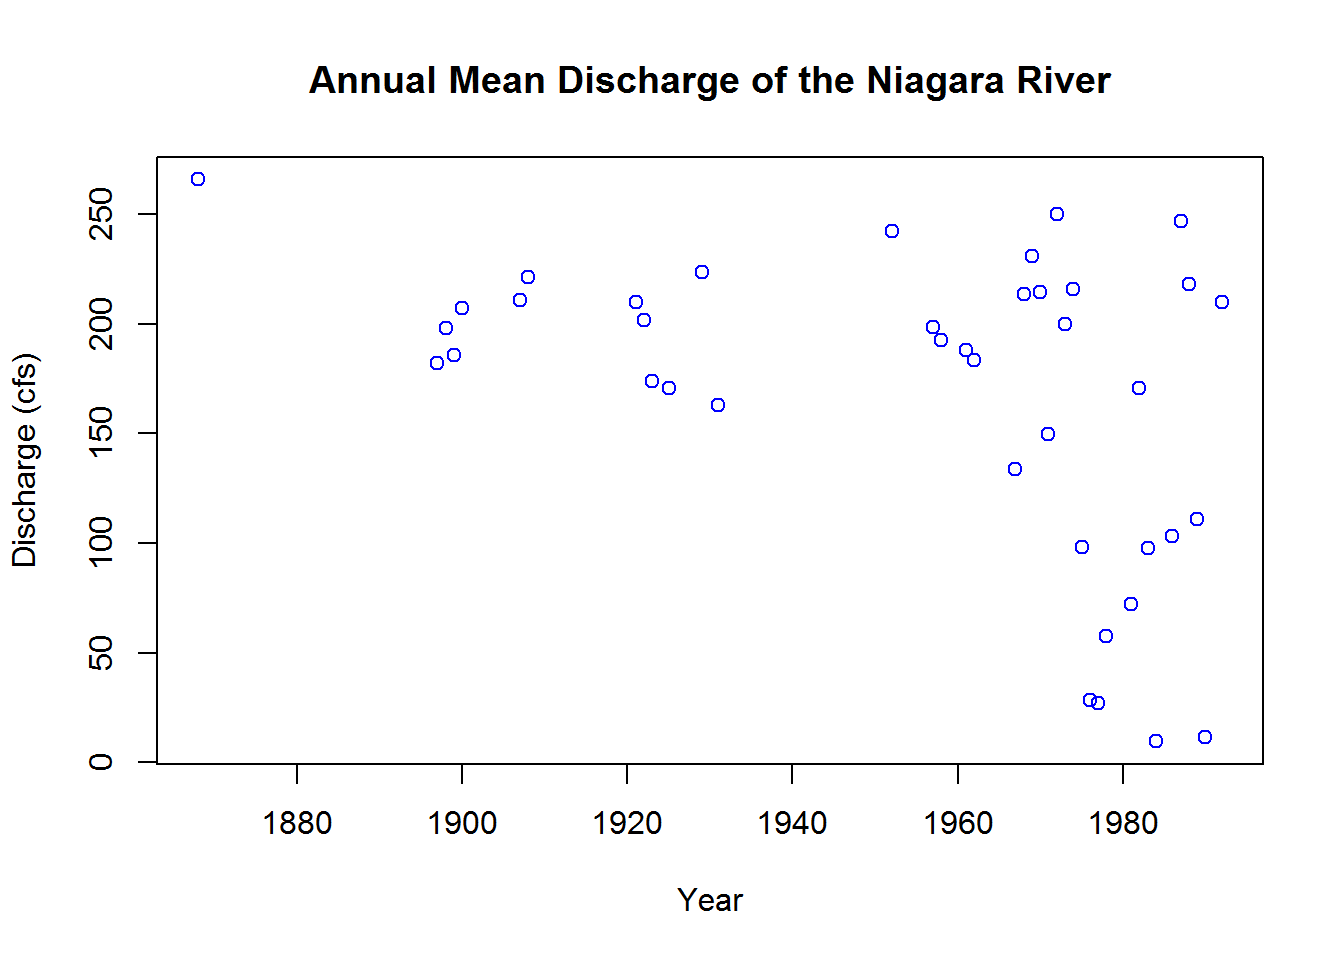
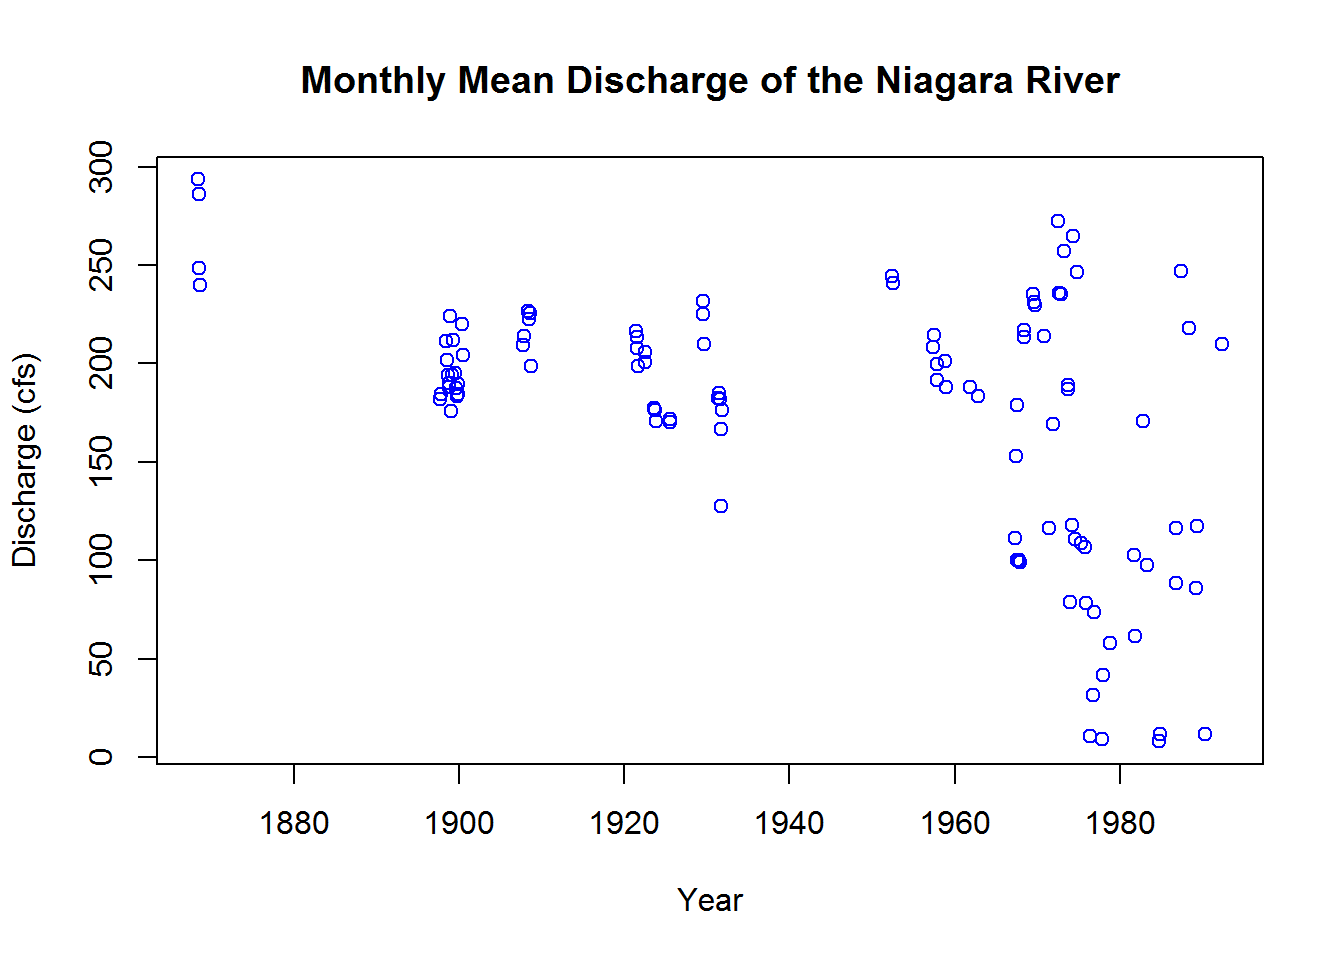
update

diff --git a/docs/index.html b/docs/index.html
@@ -449,99 +449,110 @@ knitr::opts_chunk$set(cache=TRUE)  # cache the results for quick compiling</code
 <h1>Coding Section</h1>
 <p>The comma separated value (csv) file that the above hyperlink returns can be downloaded straigt to R using the following code:</p>
 <pre class="r"><code>Qdata&lt;-fread(&quot;http://www.lre.usace.army.mil/Portals/69/docs/GreatLakesInfo/docs/DischargeMeasurement/DischargeData/NiagaraRiverDischargeData.csv&quot;)
-#Not working:Qdata=select(Qdata,(&#39;Cross.Section.Name&#39;=&#39;Cross-Section Name&#39;),(&#39;Discharge&#39;=&#39;Discharge/tcfs&#39;), &#39;Year&#39;, &#39;Month&#39;,&#39;Day&#39;,(&#39;Time&#39;=&#39;Start Time&#39;))
-head(Qdata)</code></pre>
-<pre><code>##            River Cross-Section Name Year Month Day Instance Start Time
-## 1: Niagara River     American Falls 1971     6   2        1       8:00
-## 2: Niagara River     American Falls 1971     6   3        1       7:30
-## 3: Niagara River     American Falls 1971     6   3        2      10:05
-## 4: Niagara River     American Falls 1971     6   3        3      13:15
-## 5: Niagara River     American Falls 1971     6   3        4      14:55
-## 6: Niagara River     American Falls 1971     6   3        5      18:15
-##    End Time Discharge/tcfs                                Technology
-## 1:    10:15           12.6 Conventional - off American Rapids bridge
-## 2:     9:35           13.4 Conventional - off American Rapids bridge
-## 3:    12:00           13.7 Conventional - off American Rapids bridge
-## 4:    14:45           13.4 Conventional - off American Rapids bridge
-## 5:    16:05           12.7 Conventional - off American Rapids bridge
-## 6:    19:20           10.3 Conventional - off American Rapids bridge</code></pre>
-<pre class="r"><code>#Not working: Qdata$Date[is.na(Qdata$Date)]=as.Date( with(Qdata,paste(Year, Month , Day , sep = &quot;-&quot; ),&quot;12-31-9999&quot;, format = &quot;%Y-%m-%d&quot; ))</code></pre>
+Qdata=select(Qdata,&#39;Cross.Section.Name&#39;=&#39;Cross-Section Name&#39;,&#39;Discharge&#39;=&#39;Discharge/tcfs&#39;, &#39;Year&#39;, &#39;Month&#39;,&#39;Day&#39;,&#39;Time&#39;=&#39;Start Time&#39;)
+Qdata[Qdata$Year==1931&amp;Qdata$Month==9&amp;Qdata$Day==31,&quot;Day&quot;]=30</code></pre>
+<pre><code>## Warning in `[&lt;-.data.table`(`*tmp*`, Qdata$Year == 1931 &amp; Qdata$Month == :
+## Coerced &#39;double&#39; RHS to &#39;character&#39; to match the column&#39;s type; may have
+## truncated precision. Either change the target column to &#39;double&#39; first
+## (by creating a new &#39;double&#39; vector length 2004 (nrows of entire table) and
+## assign that; i.e. &#39;replace&#39; column), or coerce RHS to &#39;character&#39; (e.g. 1L,
+## NA_[real|integer]_, as.*, etc) to make your intent clear and for speed. Or,
+## set the column type correctly up front when you create the table and stick
+## to it, please.</code></pre>
+<pre class="r"><code>head(Qdata)</code></pre>
+<pre><code>##    Cross.Section.Name Discharge Year Month Day  Time
+## 1:     American Falls      12.6 1971     6   2  8:00
+## 2:     American Falls      13.4 1971     6   3  7:30
+## 3:     American Falls      13.7 1971     6   3 10:05
+## 4:     American Falls      13.4 1971     6   3 13:15
+## 5:     American Falls      12.7 1971     6   3 14:55
+## 6:     American Falls      10.3 1971     6   3 18:15</code></pre>
 <p>Let’s work with the data now. I am going to compile the separate columns for the date: Year, Month, and Day; into a single Date column:</p>
-<pre class="r"><code>#This stopped working:
-#Qdata$Date[is.na(Qdata$Date)]=as.Date( with(Qdata,paste(Year, Month , Day , sep = &quot;-&quot; ),&quot;12-31-9999&quot;, format = &quot;%Y-%m-%d&quot; ))
+<pre class="r"><code>Qdata$Date=as.Date( with(Qdata,paste(Year, Month , Day , sep = &quot;-&quot; ),&quot;12-31-9999&quot;, format = &quot;%Y-%m-%d&quot; ))
 head(Qdata)</code></pre>
-<pre><code>##            River Cross-Section Name Year Month Day Instance Start Time
-## 1: Niagara River     American Falls 1971     6   2        1       8:00
-## 2: Niagara River     American Falls 1971     6   3        1       7:30
-## 3: Niagara River     American Falls 1971     6   3        2      10:05
-## 4: Niagara River     American Falls 1971     6   3        3      13:15
-## 5: Niagara River     American Falls 1971     6   3        4      14:55
-## 6: Niagara River     American Falls 1971     6   3        5      18:15
-##    End Time Discharge/tcfs                                Technology
-## 1:    10:15           12.6 Conventional - off American Rapids bridge
-## 2:     9:35           13.4 Conventional - off American Rapids bridge
-## 3:    12:00           13.7 Conventional - off American Rapids bridge
-## 4:    14:45           13.4 Conventional - off American Rapids bridge
-## 5:    16:05           12.7 Conventional - off American Rapids bridge
-## 6:    19:20           10.3 Conventional - off American Rapids bridge</code></pre>
-<p>We’ll find the annual mean discharge and standard deviation for the Niagara River:</p>
+<pre><code>##    Cross.Section.Name Discharge Year Month Day  Time       Date
+## 1:     American Falls      12.6 1971     6   2  8:00 1971-06-02
+## 2:     American Falls      13.4 1971     6   3  7:30 1971-06-03
+## 3:     American Falls      13.7 1971     6   3 10:05 1971-06-03
+## 4:     American Falls      13.4 1971     6   3 13:15 1971-06-03
+## 5:     American Falls      12.7 1971     6   3 14:55 1971-06-03
+## 6:     American Falls      10.3 1971     6   3 18:15 1971-06-03</code></pre>
+<p>We’ll find the monthly mean discharge and standard deviation for the Niagara River:</p>
 <pre class="r"><code>meanQdata=Qdata%&gt;%
-  group_by(Year)%&gt;%
+  group_by(Year,Month)%&gt;%
   summarise(meanDischarge = mean(Discharge,na.rm=T),
-    sdDischarge = sd(Discharge,na.rm=T))</code></pre>
+            sdDischarge = sd(Discharge,na.rm=T))
+data.table(meanQdata)</code></pre>
+<pre><code>##      Year Month meanDischarge sdDischarge
+##   1: 1868     6     293.55455   25.905882
+##   2: 1868     7     286.03000   19.715772
+##   3: 1868     8     248.31000   12.142743
+##   4: 1868     9     239.69286   27.894071
+##   5: 1897    10     181.85000   12.328357
+##  ---                                     
+## 102: 1988     5     218.13289    6.353086
+## 103: 1989     4      85.93333   25.768197
+## 104: 1989     5     117.41714  106.290477
+## 105: 1990     5      11.44000    1.406900
+## 106: 1992     5     210.01695   47.195650</code></pre>
 <p>I want to treat the data with the R package hydroTSM, which helps analyze hydrological data with time series. To do this, I need to get my data into a format that is compatible with the xts package.</p>
-<p>BUT, this code isn’t working yet, so I can’t include it here.</p>
-<pre class="r"><code>#xts1&lt;-xts(x=1:10,order.by = Sys.Date()-1:10)
+<pre class="r"><code>Qdata&lt;-data.table(Qdata)
+QDT&lt;-as.data.table(Qdata)
+head(QDT)</code></pre>
+<pre><code>##    Cross.Section.Name Discharge Year Month Day  Time       Date
+## 1:     American Falls      12.6 1971     6   2  8:00 1971-06-02
+## 2:     American Falls      13.4 1971     6   3  7:30 1971-06-03
+## 3:     American Falls      13.7 1971     6   3 10:05 1971-06-03
+## 4:     American Falls      13.4 1971     6   3 13:15 1971-06-03
+## 5:     American Falls      12.7 1971     6   3 14:55 1971-06-03
+## 6:     American Falls      10.3 1971     6   3 18:15 1971-06-03</code></pre>
+<pre class="r"><code>QDT&lt;-select(QDT,Date,Discharge)
+Qxts&lt;-as.xts.data.table(QDT)</code></pre>
+<p>The hydroTSM package contains a function to process daily data to monthly and annual. For my purposes, I want to see the monthly mean to make sure there is not too much discrepancy over the large time period in the measurements.</p>
+<pre class="r"><code>meanMon&lt;-daily2monthly(Qxts,FUN=mean)
+head(meanMon)</code></pre>
+<pre><code>## 1868-06-01 1868-07-01 1868-08-01 1868-09-01 1897-10-01 1897-11-01 
+##   293.5545   286.0300   248.3100   239.6929   181.8500   184.4000</code></pre>
+<p>Now that we have it in a monthly time series format, let’s plot the data:</p>
+<pre class="r"><code>mMon&lt;-plot(meanMon,
+     type=&quot;p&quot;,
+     ylab=&quot;Discharge (cfs)&quot;,
+     xlab=&quot;Year&quot;,
+     main=&quot;Monthly Mean Discharge of the Niagara River&quot;,
+     col=&quot;blue&quot;
+)</code></pre>
+<p><img src="index_files/figure-html/unnamed-chunk-7-1.png" width="672" /> hydroTSM has some required maintenance code for use in calculations:</p>
+<pre class="r"><code>dates&lt;-time(meanMon)
+nyears&lt;-yip(from = start(meanMon),to=end(meanMon),out.type = &quot;nmbr&quot;)</code></pre>
+<p>Let’s take a look at the summary information for the Niagara River discharge measurements.</p>
+<pre class="r"><code>smry(meanMon)</code></pre>
+<pre><code>##               Index  meanMon
+## Min.     1868-06-01   7.9750
+## 1st Qu.  1908-08-16 120.3000
+## Median   1957-11-16 188.7000
+## Mean     1944-04-20 173.3000
+## 3rd Qu.  1974-03-01 214.5000
+## Max.     1992-05-01 293.6000
+## IQR            &lt;NA&gt;  94.1745
+## sd             &lt;NA&gt;  65.5914
+## cv             &lt;NA&gt;   0.3785
+## Skewness       &lt;NA&gt;  -0.8924
+## Kurtosis       &lt;NA&gt;   0.1179
+## NA&#39;s           &lt;NA&gt;   0.0000
+## n              &lt;NA&gt; 106.0000</code></pre>
+<p>From this, we can see that the lowest flow of record occurred in June 1868, with a flow of approximately 8 cfs and the highest flow occurred in May 1992 with approximately 294 cfs. The mean flow is 173 cfs.</p>
+<p>HydroTSM can show the data in different ways to explore the hydrography of the region.</p>
+<pre class="r"><code>hydroplot(meanMon,var.type = &quot;Flow&quot;,main = &quot;at Niagara River&quot;,pfreq = &quot;dm&quot;,from = &quot;1868-06-01&quot;)</code></pre>
+<pre><code>## [Warning: &#39;x&#39; is a monthly object, so &#39;pfreq&#39; has been changed to &#39;ma&#39;]</code></pre>
+<p><img src="index_files/figure-html/unnamed-chunk-10-1.png" width="672" /></p>
+<p>It displays it as the time series, where it is observed that the flow of the Niagara River has seen a dramatic change since measurements began 124 years ago. 1967 was the first time when the monthly discharge averaged less than 100 cfs.</p>
+<pre class="r"><code>M &lt;- matrix(m, ncol=53, byrow = TRUE)
 
-#setcolorder(Qdata,c(&quot;Date&quot;, &quot;Year&quot;, &quot;Month&quot;, &quot;Day&quot;, &quot;Cross.Section.Name&quot;, &quot;Discharge&quot;))
 
-#QDT&lt;-as.data.table(Qdata)%&gt;%
-# select(c(&quot;Date&quot;=&quot;index&quot;,&quot;Discharge&quot;))
-#head(QDT)
-#Qxts&lt;-as.xts.data.table(QDT)
-#head(Qxts)
-#xts(QDT[, -1], order.by=as.POSIXct.Date(QDT$index))</code></pre>
-<pre class="r"><code>#MQDT&lt;-data.table(meanQdata)
-#as.xts.data.table(MQDT)
-#xts(MQDT[, -1], order.by=as.Date(meanQdata$Date))
-#head(MQDT)</code></pre>
-</div>
-<div id="results" class="section level1">
-<h1>Results</h1>
-<p>Plotting the discharge over time yields:</p>
-<pre class="r"><code>  x=meanQdata$Year
-  y=meanQdata$meanDischarge
-  m=plot(x,y,
-       type=&quot;p&quot;,
-       ylab=&quot;Discharge (cfs)&quot;,
-       xlab=&quot;Year&quot;,
-       main=&quot;Annual Mean Discharge of the Niagara River&quot;,
-       col=&quot;blue&quot;
-       
-  )</code></pre>
-<p><img src="index_files/figure-html/unnamed-chunk-7-1.png" width="672" /> The discharge measurements have been averaged for each year and plotted over time.</p>
-<pre class="r"><code>summary(d)</code></pre>
-<pre><code>##      name             longitude          latitude         prov          
-##  Length:100         Min.   :-123.18   Min.   :26.94   Length:100        
-##  Class :character   1st Qu.: -95.56   1st Qu.:36.13   Class :character  
-##  Mode  :character   Median : -83.47   Median :38.95   Mode  :character  
-##                     Mean   : -89.68   Mean   :38.48                     
-##                     3rd Qu.: -77.06   3rd Qu.:40.48                     
-##                     Max.   : -70.07   Max.   :48.77                     
-##       date                key           
-##  Min.   :2017-11-27   Length:100        
-##  1st Qu.:2017-11-27   Class :character  
-##  Median :2017-11-27   Mode  :character  
-##  Mean   :2017-11-27                     
-##  3rd Qu.:2017-11-27                     
-##  Max.   :2017-11-27</code></pre>
-</div>
-<div id="conclusions" class="section level1">
-<h1>Conclusions</h1>
-<p>I haven’t been able to pursue the second and third questions in a way I can display in R yet.</p>
-</div>
-<div id="references" class="section level1">
-<h1>References</h1>
+require(lattice)</code></pre>
+<pre><code>## Loading required package: lattice</code></pre>
+<pre class="r"><code>print(matrixplot(M,ColorRamp = &quot;Days&quot;,main = &quot;Annual Flow at Niagara River (cfs)&quot;))</code></pre>
+<p><img src="index_files/figure-html/unnamed-chunk-11-1.png" width="672" /> Plotting the monthly flow values for each year, useful for identifying high/low flow months.</p>
 </div>
 
 <!-- give the footer some space -->
